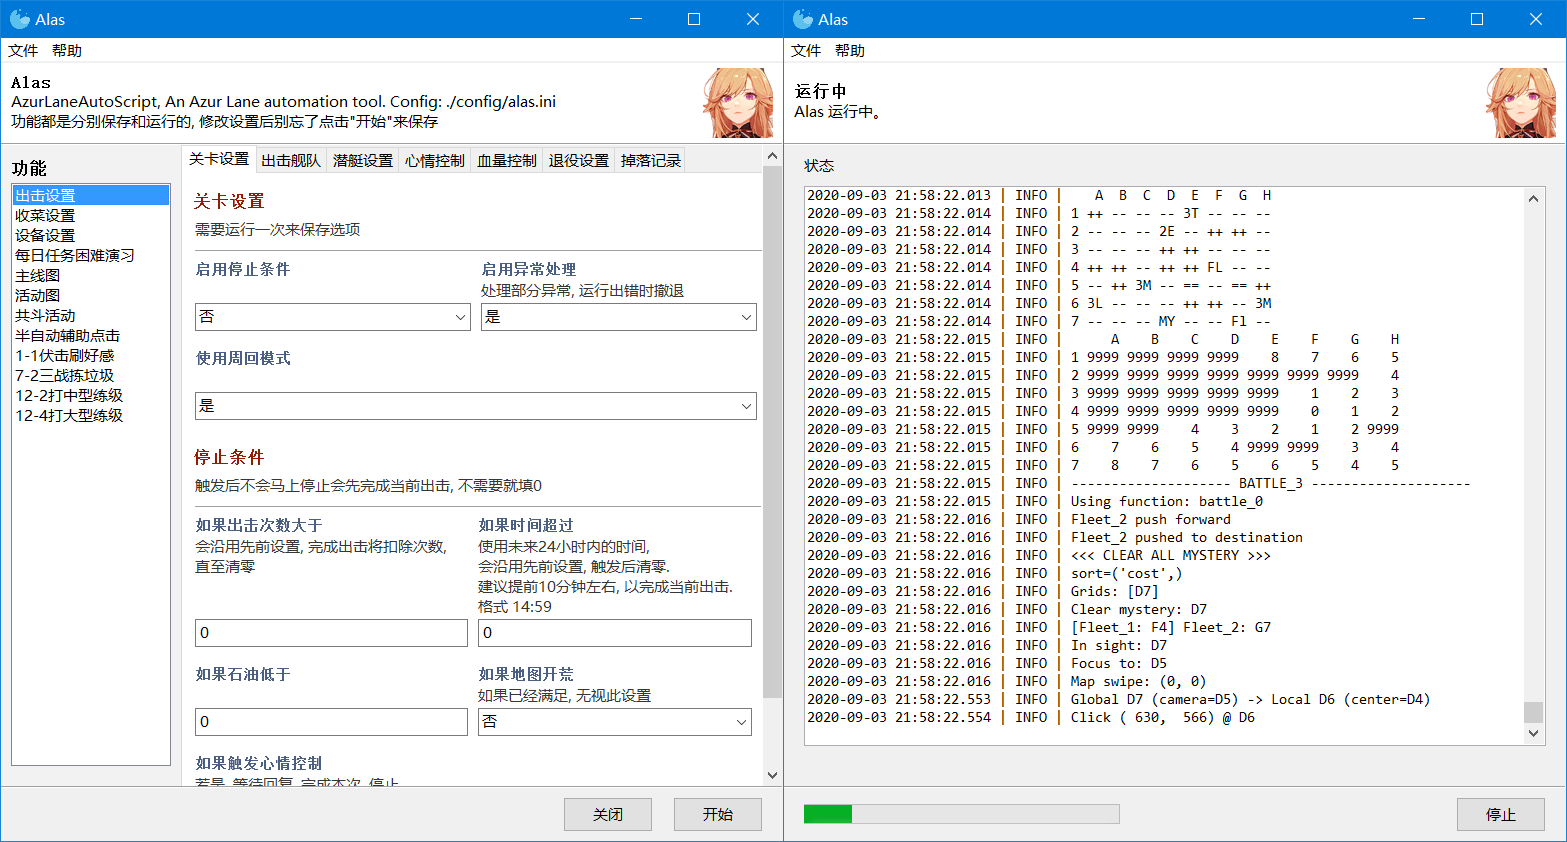
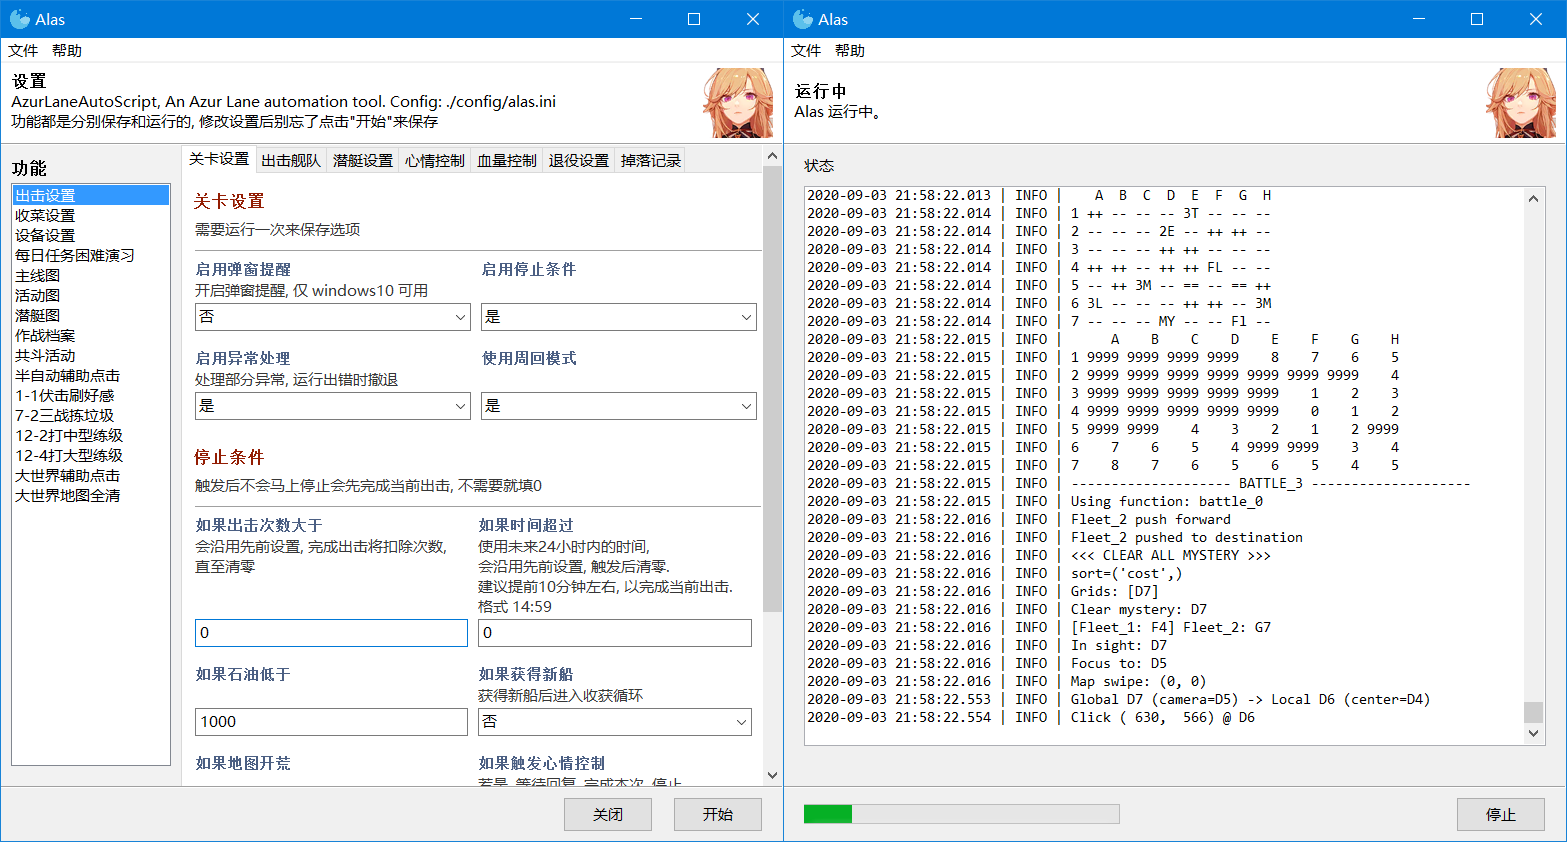
Doc: README add TW thanks and function os_clear_map
- Update GUI image

diff --git a/README.md b/README.md
@@ -11,13 +11,15 @@
 
 ### QQ群 1087735381
 
-Alas, an Azur Lane automation tool with GUI (Support CN, EN, JP, able to support other servers).
+Alas, an Azur Lane automation tool with GUI (Support CN, EN, JP, TW, able to support other servers).
 
-Alas, 一个带GUI的碧蓝航线脚本 (支持国服, 国际服, 日服, 可以支持其他服务器).
+Alas, 一个带GUI的碧蓝航线脚本 (支持国服, 国际服, 日服, 台服, 可以支持其他服务器).
 
 EN support, Thanks **[@whoamikyo](https://github.com/whoamikyo)**
 
-JP support, Thanks **[@ferina8-14](https://github.com/ferina8-14)** and **[@noname94](https://github.com/noname94)** some features might not work.
+JP support, Thanks **[@ferina8-14](https://github.com/ferina8-14)** and **[@noname94](https://github.com/noname94)** , some features might not work.
+
+TW support, Thanks **[@Zorachristine](https://github.com/Zorachristine)** , some features might not work.
 
 > **Event Announcement 活动公告**
 >
@@ -44,6 +46,8 @@ JP support, Thanks **[@ferina8-14](https://github.com/ferina8-14)** and **[@nona
 - **委托收派** 出击时自动切出去收获, 支持收派委托, 收派科研, 收派战术学院, 收任务
 
 - **特定模式出击** 7-2三战拣垃圾, 12图练级. 1-1刷好感, 打潜艇图.
+
+- **大世界** 安全海域下当前地图短猫相接.
 
 - **其他小功能**
 
